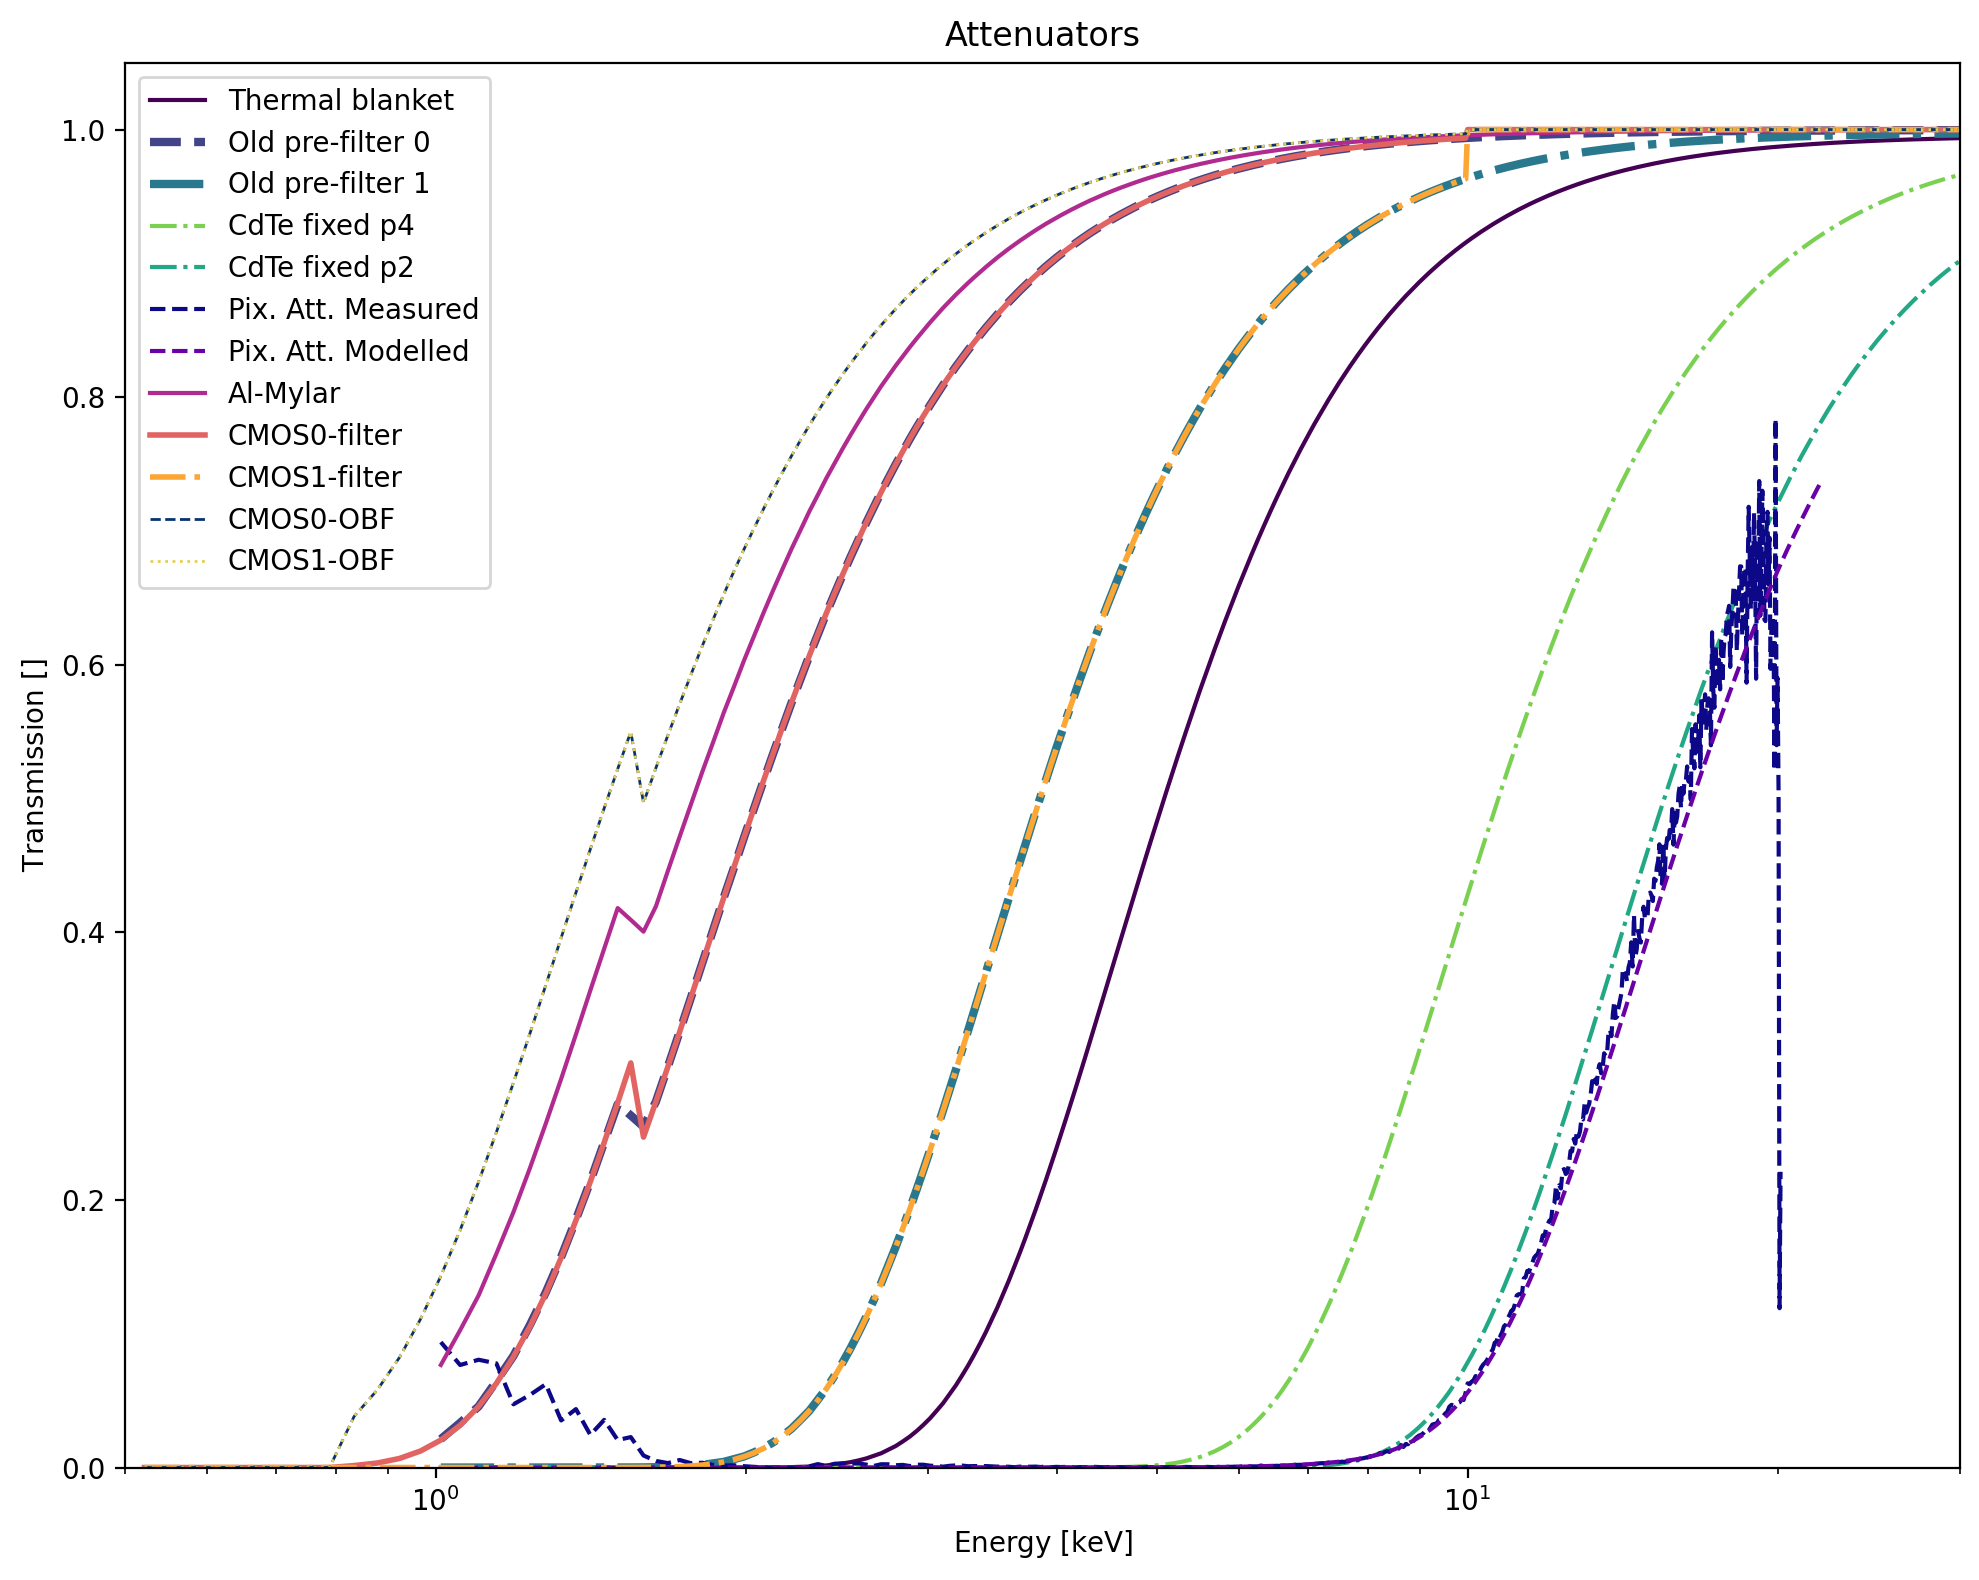
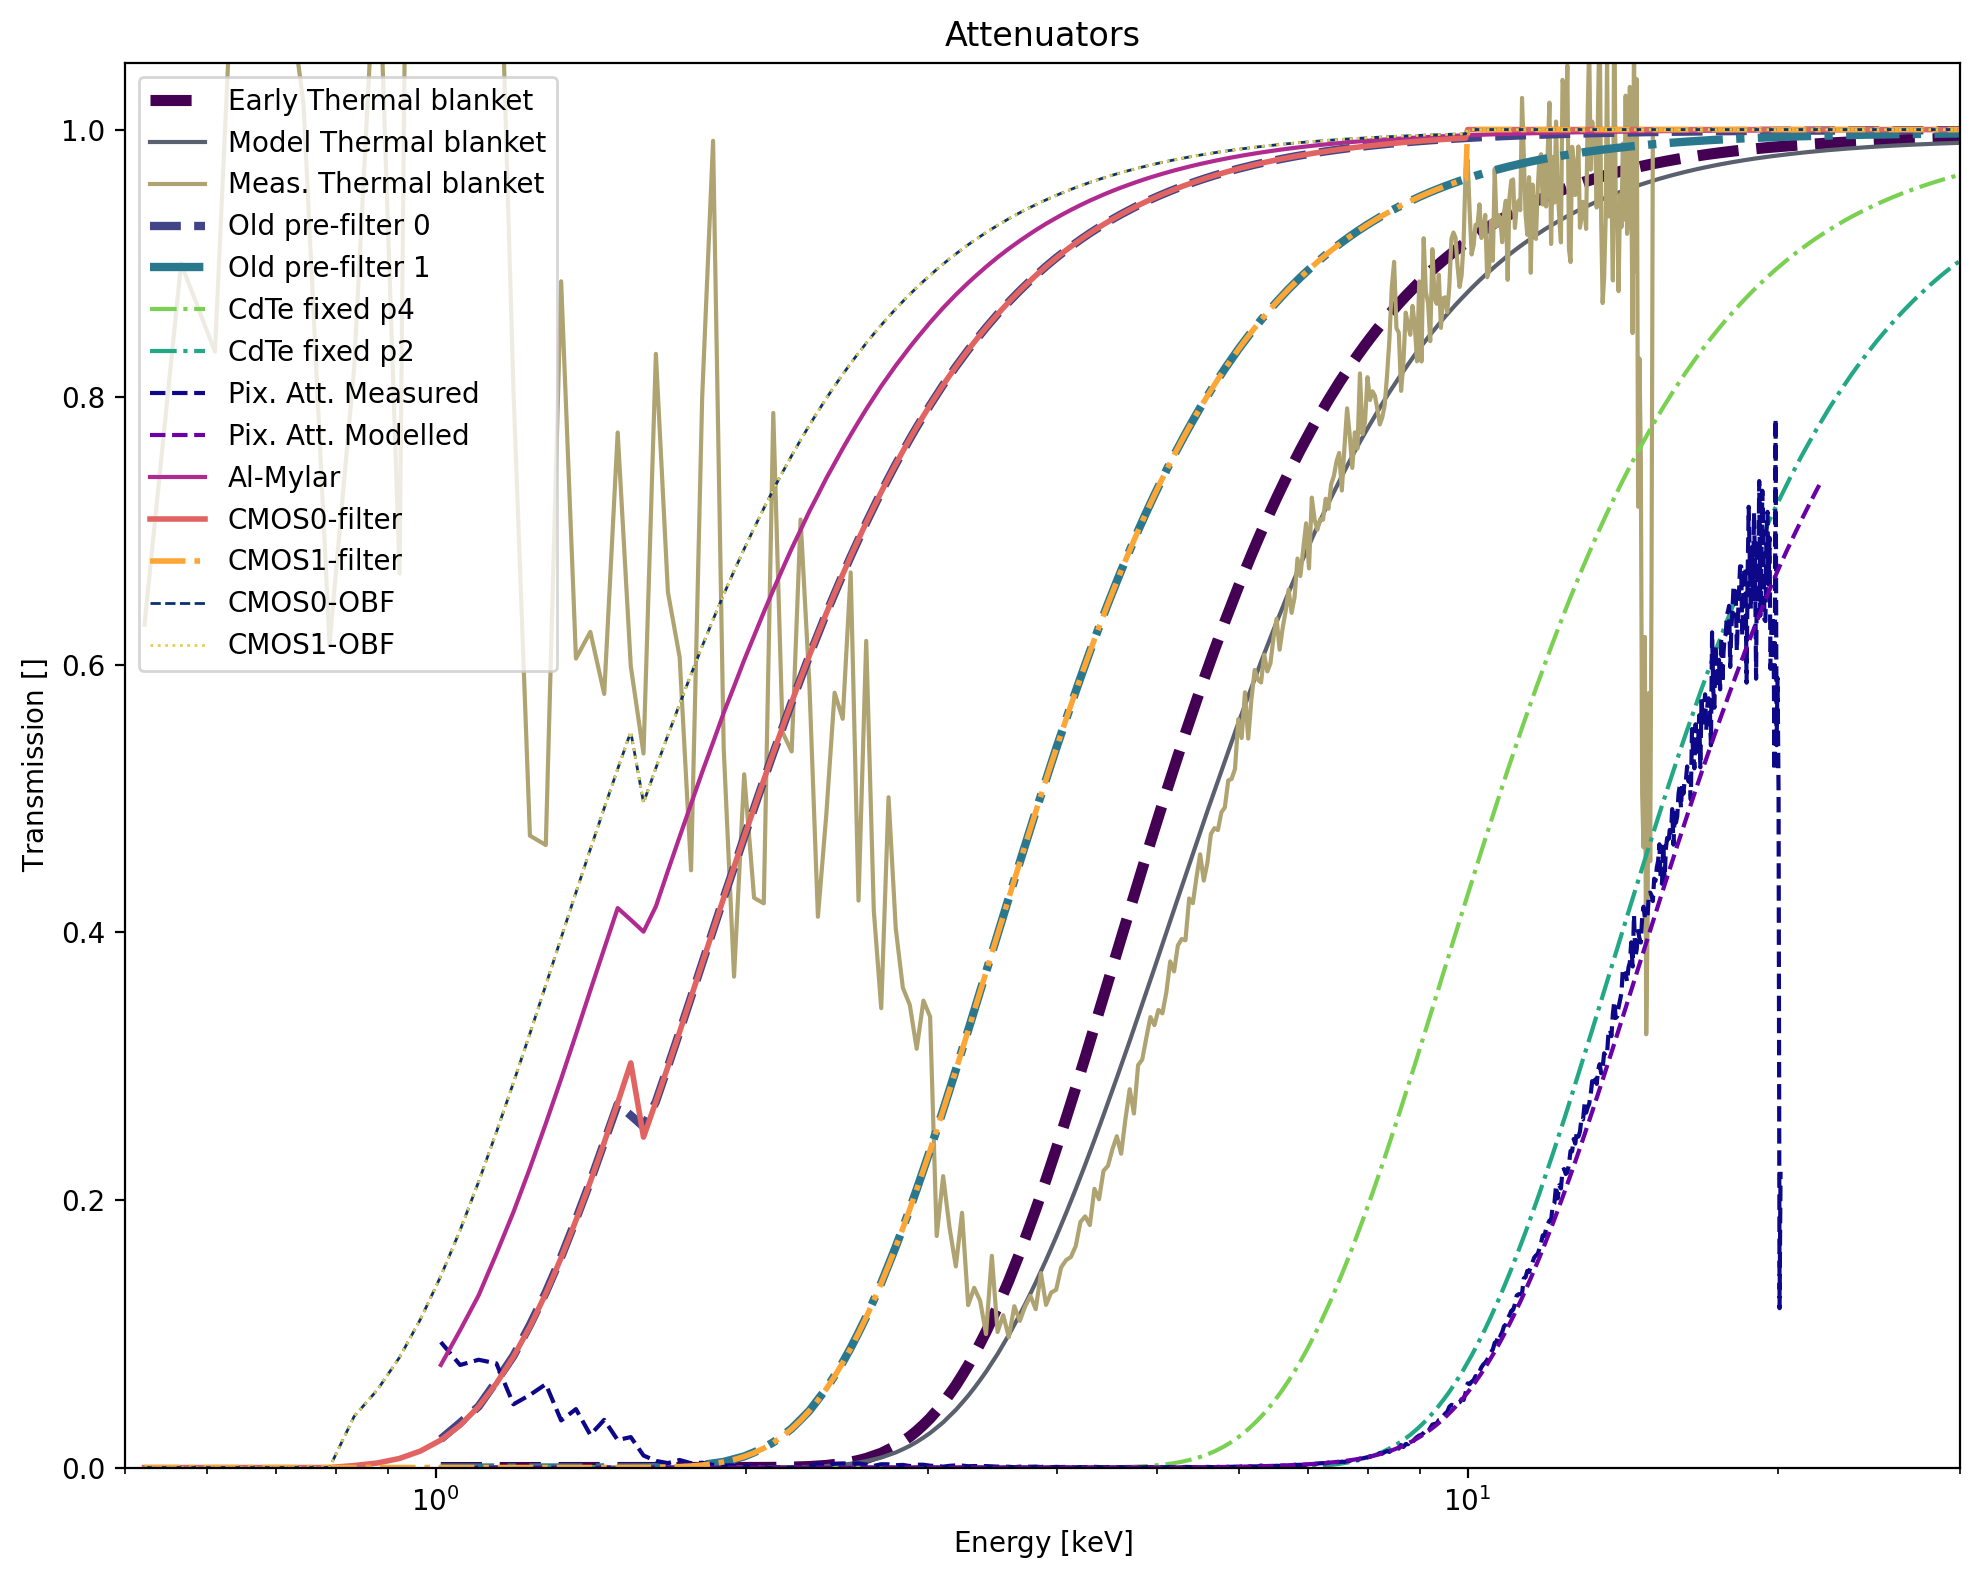
Update to thermal blanket

diff --git a/response_tools/attenuation.py b/response_tools/attenuation.py
@@ -39,8 +39,64 @@ class AttOutput(BaseOutput):
 
 # thermal blanket attenuation
 @u.quantity_input(mid_energies=u.keV)
-def att_thermal_blanket(mid_energies, file=None):
+def att_thermal_blanket(mid_energies, use_model=False, file=None): 
     """Thermal blanket transmittance interpolated to the given energies.
+
+    Parameters
+    ----------
+    mid_energies : `astropy.units.quantity.Quantity`
+        The energies at which the transmission is required. If 
+        `numpy.nan<<astropy.units.keV` is passed then an entry for all 
+        native file energies are returned. 
+        Unit must be convertable to keV.
+
+    use_model : `bool`
+        Defines whether to use the measured values for the thermal
+        blanket (False) or the modelled values (True).
+        Default: False
+
+    file : `str` or `None`
+        Gives the ability to provide custom files for the information. 
+        Default: None
+
+    Returns
+    -------
+    : `AttOutput`
+        An object containing the energies for each transmission, the 
+        transmissions, and more. See accessible information using 
+        `.contents` on the output.
+    """
+    if not use_model:
+        _f = os.path.join(FILE_PATH, RESPONSE_INFO_TYPE["att_measured_thermal_blanket"]) if file is None else file
+        with fits.open(_f) as hdul:
+            att_es = hdul[1].data["ENERGY"][0] << u.keV
+            att_values = hdul[1].data["MEASURED_TRANS"][0] << u.dimensionless_unscaled
+    else:
+        _f = os.path.join(FILE_PATH, RESPONSE_INFO_TYPE["att_modeled_thermal_blanket"]) if file is None else file
+        with fits.open(_f) as hdul:
+            att_es = hdul[1].data["ENERGY"][0] << u.keV
+            att_values = hdul[1].data["THEO_TRANS"][0] << u.dimensionless_unscaled
+    
+    mid_energies = native_resolution(native_x=att_es, input_x=mid_energies)
+
+    return AttOutput(filename=_f,
+                     function_path=f"{sys._getframe().f_code.co_name}",
+                     mid_energies=mid_energies,
+                     transmissions=np.interp(mid_energies.value, 
+                                             att_es.value, 
+                                             att_values.value, 
+                                             left=0, 
+                                             right=1) << u.dimensionless_unscaled,
+                     attenuation_type="Thermal-Blanket",
+                     model=use_model,
+                     )
+
+# early version of the thermal blanket attenuation
[email redacted]_input(mid_energies=u.keV)
+def att_early_thermal_blanket(mid_energies, file=None): 
+    """Early version of the thermal blanket transmission.
+
+    You're likely looking for `att_thermal_blanket`.
 
     Parameters
     ----------
@@ -61,7 +117,8 @@ def att_thermal_blanket(mid_energies, file=None):
         transmissions, and more. See accessible information using 
         `.contents` on the output.
     """
-    _f = os.path.join(FILE_PATH, RESPONSE_INFO_TYPE["att_thermal_blanket"]) if file is None else file
+    logging.warning(f"Caution: This might not be the function ({sys._getframe().f_code.co_name}) you are looking for, please see `att_thermal_blanket`.")
+    _f = os.path.join(FILE_PATH, RESPONSE_INFO_TYPE["att_early_thermal_blanket"]) if file is None else file
     att = scipy.io.readsav(_f)
     att_es, att_values = att["energy_kev"] << u.keV, att["f4_transmission"] << u.dimensionless_unscaled
     mid_energies = native_resolution(native_x=att_es, input_x=mid_energies)
@@ -74,7 +131,7 @@ def att_thermal_blanket(mid_energies, file=None):
                                              att_values.value, 
                                              left=0, 
                                              right=1) << u.dimensionless_unscaled,
-                     attenuation_type="Thermal-Blanket",
+                     attenuation_type="Early-Thermal-Blanket",
                      model=True,
                      )
 
@@ -552,14 +609,19 @@ def asset_att(save_location=None):
 
     tb_col, obf0_col, obf1_col, cdte_fixed2_col, cdte_fixed4_col = plt.cm.viridis([0, 0.2, 0.4, 0.6, 0.8])
     pix_att_meas_col, pix_att_mod_col, al_mylar_mod_col, cmost0_col, cmost1_col = plt.cm.plasma([0, 0.2, 0.4, 0.6, 0.8])
-    cmost2_col, cmost3_col = plt.cm.cividis([0.1, 0.9])
+    cmost2_col, tb_cola, tb_colb, cmost3_col = plt.cm.cividis([0.1, 0.35, 0.7, 0.9])
 
     # all attenuators
     plt.figure(figsize=(10,8))
-    att_therm_bl = zeroes2nans(att_thermal_blanket(mid_energies).transmissions)
-    plt.ylabel(f"Transmission [{att_therm_bl.unit:latex}]")
+    att_therm_bl_early = zeroes2nans(att_early_thermal_blanket(mid_energies).transmissions)
+    plt.ylabel(f"Transmission [{att_therm_bl_early.unit:latex}]")
     plt.xlabel(f"Energy [{mid_energies.unit:latex}]")
-    p1 = plt.plot(mid_energies, att_therm_bl, color=tb_col, ls="-", label="Thermal blanket")
+    p1 = plt.plot(mid_energies, att_therm_bl_early, color=tb_col, ls="--", lw=4, label="Early Thermal blanket")
+
+    att_therm_bl_model = zeroes2nans(att_thermal_blanket(mid_energies, use_model=True).transmissions)
+    att_therm_bl_measure = zeroes2nans(att_thermal_blanket(mid_energies, use_model=False).transmissions)
+    p1a = plt.plot(mid_energies, att_therm_bl_model, color=tb_cola, ls="-", label="Model Thermal blanket")
+    p1b = plt.plot(mid_energies, att_therm_bl_measure, color=tb_colb, ls="-", label="Meas. Thermal blanket")
 
     old_prefilter0 = zeroes2nans(_att_old_prefilter(mid_energies, position=0).transmissions)
     p2 = plt.plot(mid_energies, old_prefilter0, color=obf0_col, ls="--", label="Old pre-filter 0", lw=3)
@@ -600,7 +662,7 @@ def asset_att(save_location=None):
 
     plt.title("Attenuators")
     
-    plt.legend(handles=p1+p2+p3+p4+p5+p6+p7+p8+p9+p10+p11+p12)
+    plt.legend(handles=p1+p1a+p1b+p2+p3+p4+p5+p6+p7+p8+p9+p10+p11+p12)
     plt.tight_layout()
     if save_location is not None:
         pathlib.Path(save_location).mkdir(parents=True, exist_ok=True)

diff --git a/setup.py b/setup.py
@@ -2,7 +2,7 @@ import setuptools
 
 setuptools.setup(
     name="response_tools",
-    version="1.0.2",
+    version="1.0.3",
     description="Software used for the FOXSI response files.",
     url="https://github.com/foxsi/response-tools",
     install_requires=[

diff --git a/docs/versions_and_releases.md b/docs/versions_and_releases.md
@@ -13,6 +13,24 @@ import response_tools
 print(response_tools.__version__)
 ```
 
+## Version `1.0.3`
+
+[4 Nov. 2025] Updates to the thermal blanketing transmission files and the atmospheric attenuation file.
+
+### Attenuation
+
+- att_thermal_blanket:
+  - No longer exists.
+- att_early_cmos_prefilter
+  - `v1`: attenuation-data/F4_Blanket_transmission_v1.dat
+    - Was att_thermal_blanket.
+- att_modeled_thermal_blanket
+  - `v1`: attenuation-data/FOXSI4_theoretical_thermal_blanket_transmission_v1.fits
+    - Modeled attenuation for the thermal blanket.
+- att_measured_thermal_blanket
+  - `v1`: attenuation-data/FOXSI4_measured_thermal_blanket_transmission_v1.fits
+    - Measured attenuation for the thermal blanket.
+
 ## Version `1.0.2`
 
 [30 Oct. 2025] CdTe detector response files now share the same filename format across different versions and are now all supported in the codebase.